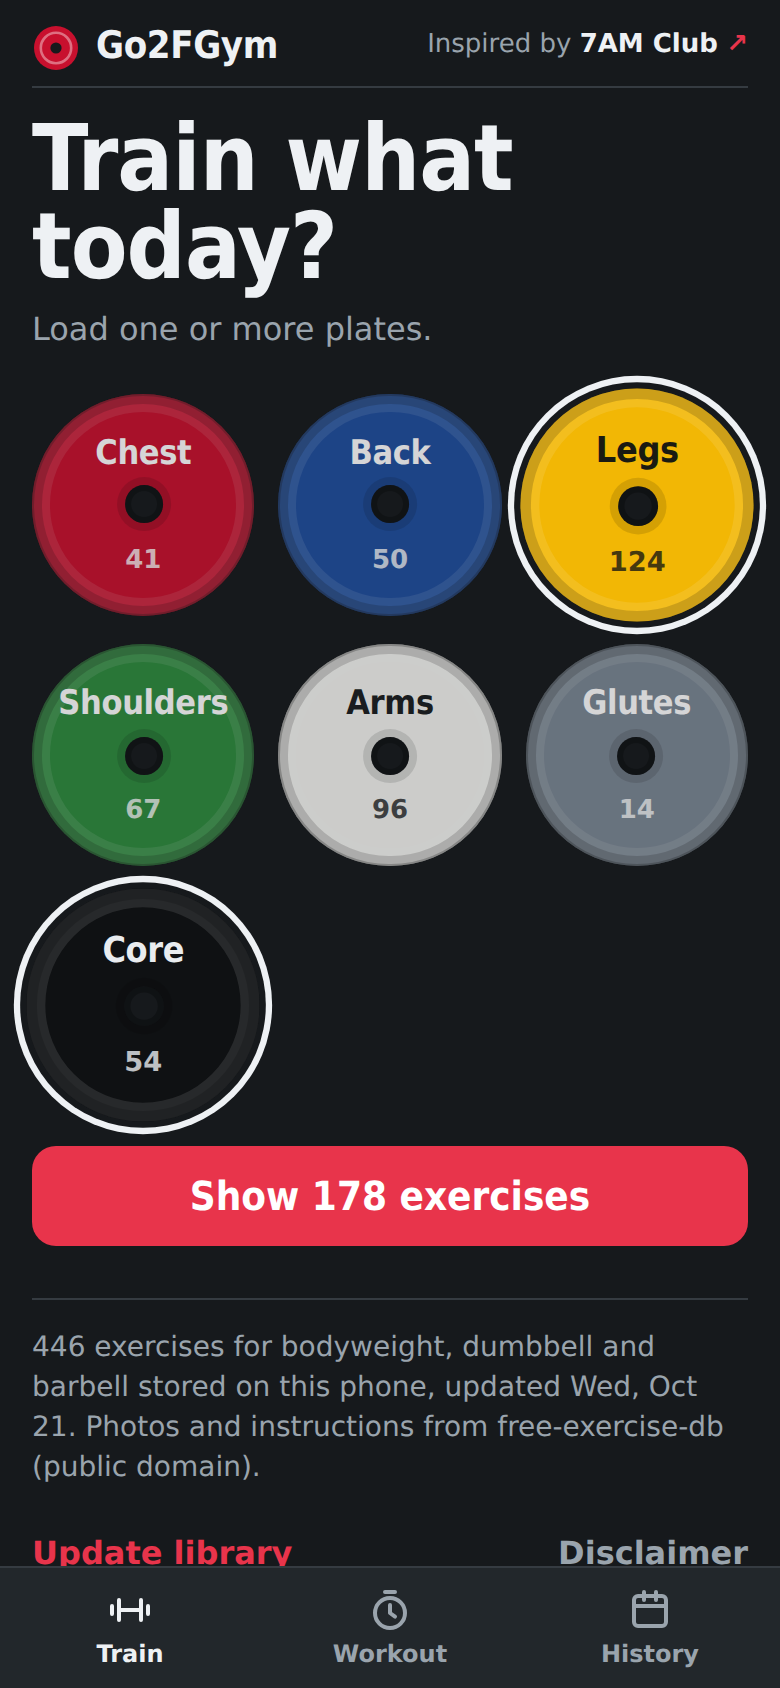
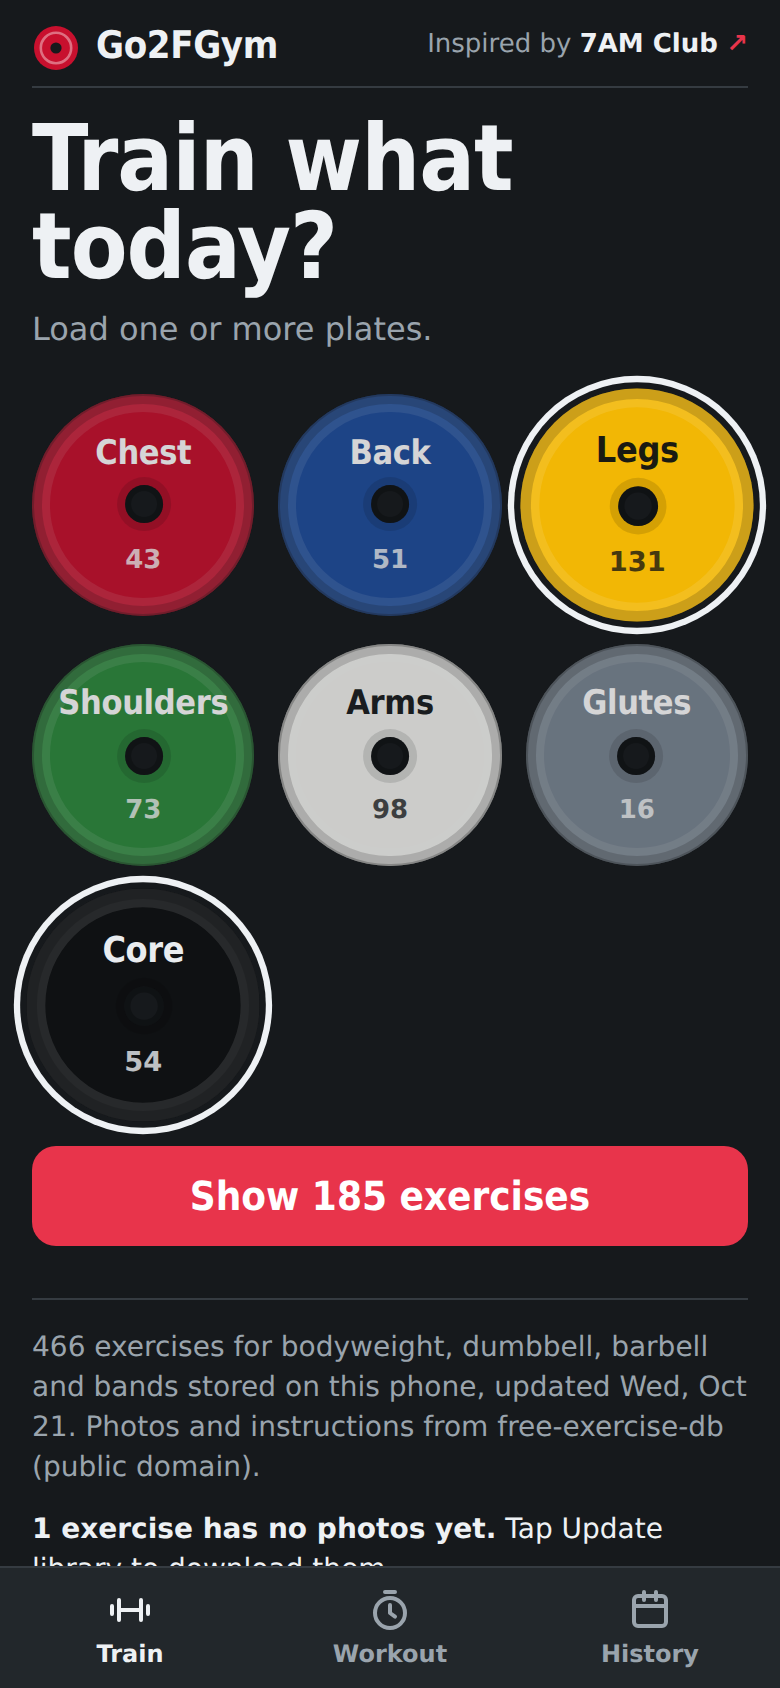
Add resistance bands to default equipment (20 exercises); hint when exercises are missing photos

diff --git a/Go2FGym.js b/Go2FGym.js
@@ -20,10 +20,10 @@
 const CONFIG = {
   unit: "kg",
   restSeconds: 90,
-  // Equipment you own. Add any of: "kettlebells", "bands", "e-z curl bar",
+  // Equipment you own. Add any of: "kettlebells", "e-z curl bar",
   // "medicine ball", "exercise ball", "foam roll", "other". Then tap
   // "Update library" in the app to download the extra photos.
-  equipment: ["body only", "dumbbell", "barbell"],
+  equipment: ["body only", "dumbbell", "barbell", "bands"],
   // Categories that need a platform, coach or special gear.
   skipCategories: ["strongman", "olympic weightlifting"],
   dataUrl: "https://raw.githubusercontent.com/yuhonas/free-exercise-db/main/dist/exercises.json",
@@ -414,7 +414,7 @@ function webApp() {
   ];
   const EQ_LABEL = {
     "body only": "Bodyweight", dumbbell: "Dumbbell", barbell: "Barbell", kettlebells: "Kettlebell",
-    bands: "Band", "e-z curl bar": "EZ bar", other: "Other", "medicine ball": "Medicine ball",
+    bands: "Bands", "e-z curl bar": "EZ bar", other: "Other", "medicine ball": "Medicine ball",
     "exercise ball": "Exercise ball", "foam roll": "Foam roller",
   };
   const LEVEL = { beginner: 0, intermediate: 1, expert: 2 };
@@ -697,10 +697,12 @@ function webApp() {
 
   function renderLibraryEmpty() {
     return `${appHeader()}<h1 class="hero">Set up your gym</h1>
-      <p class="lead">Download the exercise library once: about 450 exercises for ${esc(eqNames())}, each with two photos and step-by-step instructions (roughly 35 MB). After that, everything works offline.</p>
+      <p class="lead">Download the exercise library once: about 470 exercises for ${esc(eqNames())}, each with two photos and step-by-step instructions (roughly 36 MB). After that, everything works offline.</p>
       ${S.sync ? syncProgress() : `<button class="primary" data-a="sync">Download library</button>`}
       <p class="muted small">Source: free-exercise-db on GitHub, released into the public domain.</p>`;
   }
+
+  const missingPhotos = () => S.lib.filter((e) => !e.has).length;
 
   function plateHTML(g) {
     const on = S.groups.has(g.key);
@@ -722,6 +724,7 @@ function webApp() {
       <button class="primary" data-a="browse" ${sel ? "" : "disabled"}>${sel ? `Show ${countFor(selectedMuscles())} exercises` : "Pick a muscle group"}</button>
       <footer class="lib">
         <p class="muted small">${S.lib.length} exercises for ${esc(eqNames())} stored on this phone${S.meta ? `, updated ${esc(day(S.meta.syncedAt))}` : ""}. Photos and instructions from free-exercise-db (public domain).</p>
+        ${missingPhotos() && !S.sync ? `<p class="small"><b>${plural(missingPhotos(), "exercise")} ${missingPhotos() === 1 ? "has" : "have"} no photos yet.</b> Tap Update library to download them.</p>` : ""}
         <div class="row">${S.sync ? "" : `<button class="link" data-a="sync">Update library</button>`}<button class="link danger" data-a="disclaimer">Disclaimer</button></div>
         ${S.sync ? syncProgress() : ""}
       </footer>`;

diff --git a/README.md b/README.md
@@ -21,12 +21,12 @@ Gym apps assume a gym. At home you have a bench, a barbell, some dumbbells and t
 |---|---|
 | 🏋 **Pick by muscle** | Tap the plates for chest, back, legs, shoulders, arms, glutes or core. You get only the exercises that train them. |
 | 🖼 **See it done** | A start-to-end photo demo, numbered steps, and the muscles each exercise works. |
-| 🏠 **Made for home** | 446 exercises for bodyweight, dumbbells and barbell. Own kettlebells, bands or an EZ bar? Add them with one line. |
+| 🏠 **Made for home** | 466 exercises for bodyweight, dumbbells, barbell and resistance bands. Own kettlebells or an EZ bar? Add them with one line. |
 | ✍ **Fast logging** | Weight and reps are prefilled from last time. Change what's different, tap ✓, done. |
 | ⏱ **Rest timer** | Ticking a set starts a 90 s countdown with a beep. Add 30 s or skip. |
 | 📈 **Progress** | Each exercise shows your last performance and a trend of your estimated one-rep max. |
 | 🗓 **History** | Weekly totals, every past workout set by set, one-tap **Repeat this workout**, and CSV export. |
-| ✈ **Offline** | One download of about 35 MB, then no network needed. |
+| ✈ **Offline** | One download of about 36 MB, then no network needed. |
 | 💾 **Nothing lost** | An unfinished workout comes back when you reopen the app. History is mirrored to iCloud Drive. |
 | 📲 **Widget** | Your last workout and this week's count on the Home Screen. |
 | 🌗 **Light and dark** | Follows your iPhone's appearance. |
@@ -69,7 +69,7 @@ Settings live in the `CONFIG` block at the top of `Go2FGym.js`:
 |---|---|---|
 | `unit` | `"kg"` | Weight unit shown and exported |
 | `restSeconds` | `90` | Rest timer length |
-| `equipment` | bodyweight, dumbbell, barbell | Equipment you own. Also available: `kettlebells`, `bands`, `e-z curl bar`, `medicine ball`, `exercise ball`, `foam roll`, `other` |
+| `equipment` | bodyweight, dumbbell, barbell, bands | Equipment you own. Also available: `kettlebells`, `e-z curl bar`, `medicine ball`, `exercise ball`, `foam roll`, `other` |
 | `skipCategories` | strongman, olympic weightlifting | Exercise types hidden from the library |
 | `icloudBackup` | `true` | Mirror history to iCloud Drive › Scriptable › Go2FGym-backup |
 

diff --git a/docs/INSTALL.md b/docs/INSTALL.md
@@ -21,7 +21,7 @@ Go2FGym runs inside **Scriptable**, a free iOS app that runs JavaScript. You don
 
 1. Connect to **Wi-Fi** and run **Go2FGym**.
 2. Read the safety disclaimer and tap **I understand and accept**. You're only asked once; it's always available under **Train › Disclaimer**.
-3. Tap **Download library**. It fetches the exercise list and two photos for each exercise, about 35 MB in total.
+3. Tap **Download library**. It fetches the exercise list and two photos for each exercise, about 36 MB in total.
 4. **Keep the screen open** until it says the library is ready. That takes a few minutes.
 
 If it's interrupted, just tap **Download library** or **Update library** again. Photos you already have are skipped.
@@ -39,14 +39,14 @@ The widget shows your last workout and how many you've done this week. Tapping i
 
 ## 4. Optional: match your equipment
 
-By default the library contains exercises for **bodyweight, dumbbells and a barbell**. A flat bench is assumed; it isn't listed as separate equipment in the data.
+By default the library contains exercises for **bodyweight, dumbbells, a barbell and resistance bands**. A flat bench is assumed; it isn't listed as separate equipment in the data.
 
 To add more:
 
 1. In Scriptable, open `Go2FGym` for editing.
 2. In the `CONFIG` block at the top, add items to `equipment`, for example:
    ```js
-   equipment: ["body only", "dumbbell", "barbell", "kettlebells", "bands"],
+   equipment: ["body only", "dumbbell", "barbell", "bands", "kettlebells"],
    ```
    Available values: `body only`, `dumbbell`, `barbell`, `kettlebells`, `bands`, `e-z curl bar`, `medicine ball`, `exercise ball`, `foam roll`, `other`.
 3. Run Go2FGym and tap **Train › Update library**.
